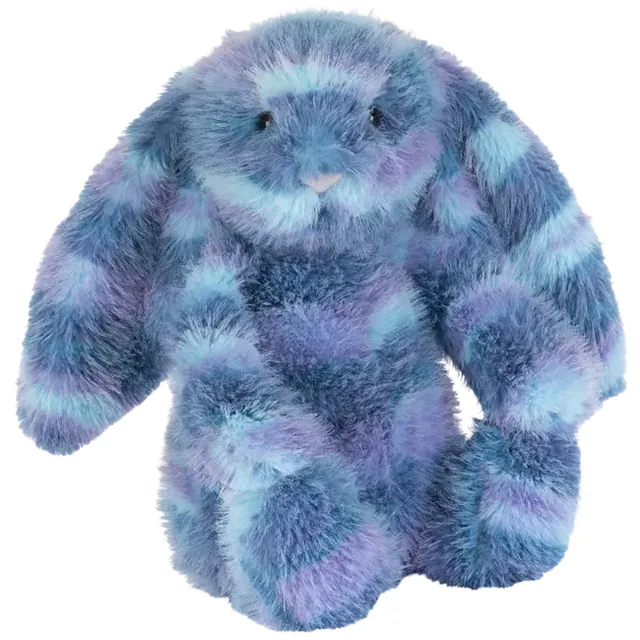
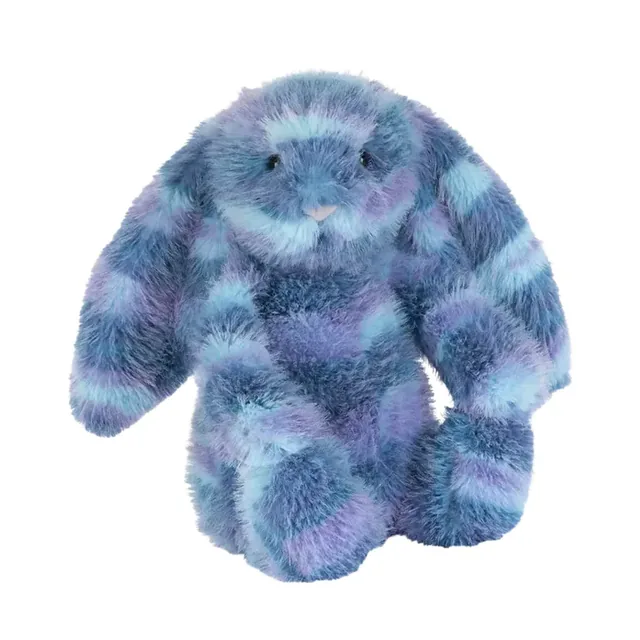
Ảnh Cerulea Luxe Bunny: thêm lề trắng, không còn bị zoom; Lazulia bỏ nhãn Mới về (noNew:1)

diff --git a/bunniihaus_design.html b/bunniihaus_design.html
@@ -1066,7 +1066,7 @@ const PRODUCTS = [
   {id:290,name:"Amuseables Toilet Roll — Medium",collection:"Others",label:"Medium",price:"1390k",priceNum:1390,shapeBg:"#FFF7F9",img:"img/Amuseables%20Toilet%20Roll.webp"},
   {id:291,name:"Bartholomew Bear Bat — Medium",collection:"Bear",label:"Medium",price:"3250k",priceNum:3250,shapeBg:"#FFFAF5",img:"img/Bartholomew%20Bear%20Bat.webp"},
   {id:292,name:"Bashful Pink Bunny — Large",collection:"Bunny",label:"Large",price:"4350k",priceNum:4350,shapeBg:"#FFFDFB",img:"img/Bashful%20Pink%20Bunny%20Large.webp"},
-  {id:293,name:"Cerulea Luxe Bunny — Medium",collection:"Bunny",label:"Medium",price:"2650k",priceNum:2650,badge:"Selfridges Exclusive",shapeBg:"#FFF5F7",img:"img/Cerulea%20Luxe%20Bunny.webp?v=2"},
+  {id:293,name:"Cerulea Luxe Bunny — Medium",collection:"Bunny",label:"Medium",price:"2650k",priceNum:2650,badge:"Selfridges Exclusive",shapeBg:"#FFF5F7",img:"img/Cerulea%20Luxe%20Bunny.webp?v=3"},
   {id:294,name:"Bashful Luxe Bunny Amberley — Medium",collection:"Bunny",label:"Medium",price:"11900k",priceNum:11900,shapeBg:"#FFF5F7",img:"img/Bashful%20Luxe%20Bunny%20Amberley.webp"},
   {id:295,name:"Bashful Luxe Bunny Cobblehop — Medium",collection:"Bunny",label:"Medium",price:"7900k",priceNum:7900,shapeBg:"#FFFAF5",img:"img/Bashful%20Luxe%20Bunny%20Cobblehop.webp?v=3"},
   {id:296,name:"Liberty Shepherdley Bunny — Medium",collection:"Bunny",label:"Medium",price:"2450k",priceNum:2450,badge:"Liberty Exclusive",shapeBg:"#FFF7F9",img:"img/Liberty%20Shepherdley%20Bunny.webp?v=3"},
@@ -1155,7 +1155,7 @@ const PRODUCTS = [
   {id:386,name:"Blossom Aqua Bunny — Medium",collection:"Bunny",label:"Medium",price:"8900k",priceNum:8900,shapeBg:"#FFF9F0",img:"img/Blossom%20Aqua%20Bunny.webp"},
   {id:387,name:"Bashful Christmas Bunny — Medium",collection:"Bunny",label:"Medium",price:"1650k",priceNum:1650,shapeBg:"#FFFAF5",img:"img/Bashful%20Christmas%20Bunny.webp"},
   {id:388,name:"Ulrich Wolf",collection:"Animal",price:"3150k",priceNum:3150,shapeBg:"#FFFAF0",img:"img/Ulrich%20Wolf.webp"},
-  {id:389,name:"Bashful Luxe Bunny Lazulia — Medium",collection:"Bunny",label:"Medium",price:"2450k",priceNum:2450,shapeBg:"#FFF5F7",img:"img/Bashful%20Luxe%20Bunny%20Lazulia.webp"}
+  {id:389,name:"Bashful Luxe Bunny Lazulia — Medium",collection:"Bunny",label:"Medium",price:"2450k",priceNum:2450,noNew:1,shapeBg:"#FFF5F7",img:"img/Bashful%20Luxe%20Bunny%20Lazulia.webp"}
 ];
 
 // ── HERO COLLAGE (6 grid mobile, 8 grid desktop) ─────────────
@@ -1246,11 +1246,11 @@ function displayName(p){
 function fmtPrice(p){
   return p.priceNum > 0 ? String(p.priceNum).replace(/\B(?=(\d{3})+(?!\d))/g, '.') + 'k' : T('Liên hệ', 'Contact us');
 }
-// Badge: explicit p.badge, else "Mới về" for the newest batch
+// Badge: explicit p.badge, else "Mới về" for the newest batch (noNew:1 on a product opts it out)
 const NEW_SINCE_ID = 309;
 function badgeHtml(p){
   if(p.badge) return `<span class="pbadge">${p.badge}</span>`;
-  if(p.id >= NEW_SINCE_ID) return `<span class="pbadge new">${T('Mới về', 'New')}</span>`;
+  if(p.id >= NEW_SINCE_ID && !p.noNew) return `<span class="pbadge new">${T('Mới về', 'New')}</span>`;
   return '';
 }
 

diff --git a/shop.html b/shop.html
@@ -1066,7 +1066,7 @@ const PRODUCTS = [
   {id:290,name:"Amuseables Toilet Roll — Medium",collection:"Others",label:"Medium",price:"1390k",priceNum:1390,shapeBg:"#FFF7F9",img:"img/Amuseables%20Toilet%20Roll.webp"},
   {id:291,name:"Bartholomew Bear Bat — Medium",collection:"Bear",label:"Medium",price:"3250k",priceNum:3250,shapeBg:"#FFFAF5",img:"img/Bartholomew%20Bear%20Bat.webp"},
   {id:292,name:"Bashful Pink Bunny — Large",collection:"Bunny",label:"Large",price:"4350k",priceNum:4350,shapeBg:"#FFFDFB",img:"img/Bashful%20Pink%20Bunny%20Large.webp"},
-  {id:293,name:"Cerulea Luxe Bunny — Medium",collection:"Bunny",label:"Medium",price:"2650k",priceNum:2650,badge:"Selfridges Exclusive",shapeBg:"#FFF5F7",img:"img/Cerulea%20Luxe%20Bunny.webp?v=2"},
+  {id:293,name:"Cerulea Luxe Bunny — Medium",collection:"Bunny",label:"Medium",price:"2650k",priceNum:2650,badge:"Selfridges Exclusive",shapeBg:"#FFF5F7",img:"img/Cerulea%20Luxe%20Bunny.webp?v=3"},
   {id:294,name:"Bashful Luxe Bunny Amberley — Medium",collection:"Bunny",label:"Medium",price:"11900k",priceNum:11900,shapeBg:"#FFF5F7",img:"img/Bashful%20Luxe%20Bunny%20Amberley.webp"},
   {id:295,name:"Bashful Luxe Bunny Cobblehop — Medium",collection:"Bunny",label:"Medium",price:"7900k",priceNum:7900,shapeBg:"#FFFAF5",img:"img/Bashful%20Luxe%20Bunny%20Cobblehop.webp?v=3"},
   {id:296,name:"Liberty Shepherdley Bunny — Medium",collection:"Bunny",label:"Medium",price:"2450k",priceNum:2450,badge:"Liberty Exclusive",shapeBg:"#FFF7F9",img:"img/Liberty%20Shepherdley%20Bunny.webp?v=3"},
@@ -1155,7 +1155,7 @@ const PRODUCTS = [
   {id:386,name:"Blossom Aqua Bunny — Medium",collection:"Bunny",label:"Medium",price:"8900k",priceNum:8900,shapeBg:"#FFF9F0",img:"img/Blossom%20Aqua%20Bunny.webp"},
   {id:387,name:"Bashful Christmas Bunny — Medium",collection:"Bunny",label:"Medium",price:"1650k",priceNum:1650,shapeBg:"#FFFAF5",img:"img/Bashful%20Christmas%20Bunny.webp"},
   {id:388,name:"Ulrich Wolf",collection:"Animal",price:"3150k",priceNum:3150,shapeBg:"#FFFAF0",img:"img/Ulrich%20Wolf.webp"},
-  {id:389,name:"Bashful Luxe Bunny Lazulia — Medium",collection:"Bunny",label:"Medium",price:"2450k",priceNum:2450,shapeBg:"#FFF5F7",img:"img/Bashful%20Luxe%20Bunny%20Lazulia.webp"}
+  {id:389,name:"Bashful Luxe Bunny Lazulia — Medium",collection:"Bunny",label:"Medium",price:"2450k",priceNum:2450,noNew:1,shapeBg:"#FFF5F7",img:"img/Bashful%20Luxe%20Bunny%20Lazulia.webp"}
 ];
 
 // ── HERO COLLAGE (6 grid mobile, 8 grid desktop) ─────────────
@@ -1246,11 +1246,11 @@ function displayName(p){
 function fmtPrice(p){
   return p.priceNum > 0 ? String(p.priceNum).replace(/\B(?=(\d{3})+(?!\d))/g, '.') + 'k' : T('Liên hệ', 'Contact us');
 }
-// Badge: explicit p.badge, else "Mới về" for the newest batch
+// Badge: explicit p.badge, else "Mới về" for the newest batch (noNew:1 on a product opts it out)
 const NEW_SINCE_ID = 309;
 function badgeHtml(p){
   if(p.badge) return `<span class="pbadge">${p.badge}</span>`;
-  if(p.id >= NEW_SINCE_ID) return `<span class="pbadge new">${T('Mới về', 'New')}</span>`;
+  if(p.id >= NEW_SINCE_ID && !p.noNew) return `<span class="pbadge new">${T('Mới về', 'New')}</span>`;
   return '';
 }
 

diff --git a/index.html b/index.html
@@ -748,7 +748,7 @@ function renderCollections(P){
   document.getElementById('statCount').textContent = Math.floor(P.length / 10) * 10 + '+';
 }
 function renderNew(P){
-  const list = P.filter(p => p.id >= NEW_SINCE_ID && p.priceNum > 0 && !p.badge).sort((a,b) => b.id - a.id).slice(0, 14);
+  const list = P.filter(p => p.id >= NEW_SINCE_ID && p.priceNum > 0 && !p.badge && !p.noNew).sort((a,b) => b.id - a.id).slice(0, 14);
   document.getElementById('newRail').innerHTML = list.map(p => card(p, T('Mới về', 'New'))).join('');
 }
 function renderExclusive(P){
